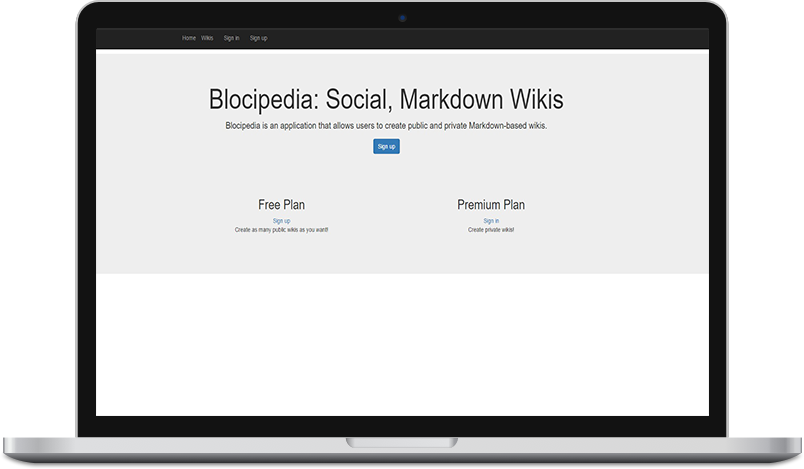
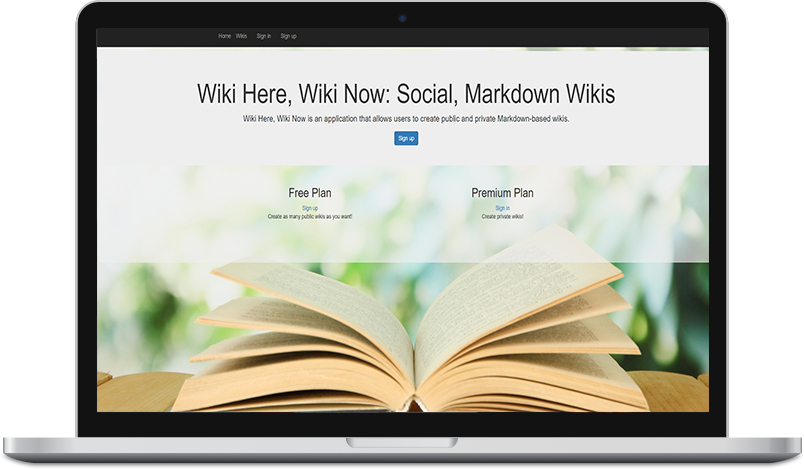
wiki here wiki now project added

diff --git a/_portfolio/wikiherewikinow.md b/_portfolio/wikiherewikinow.md
@@ -1,0 +1,53 @@
+---
+layout: post
+title: Wiki Here, Wiki Now
+thumbnail-path: "img/wikiherewikinow.png"
+short-description: Wiki Here, Wiki Now is an application that allows users to create wikis and collaborate on other wikis.
+date: 20/05/2016
+hide: false
+---
+
+{:.center}
+[![Demo]({{ site.baseurl }}/img/wikiherewikinow.png)](https://blooming-plains-48367.herokuapp.com/)
+
+## Summary
+
+This project was my first main Ruby and Rails application. This application that allows users to create wikis and collaborate on other wikis. Users can pay to upgrade their membership, allowing them to view and create private wikis.
+
+## Explanation
+
+In constructing this application, I learned substantially more about ActiveRecord, model relationships, controller actions, views, you name it. The project site itself is fairly simple and focused on the site's functionality, but my personal highlights include working with a joins table, policy with pundit, and really getting to know the ActiveRecord Relationships that Rails can obfuscate on basic projects.
+
+*   There are three types of users: standard, premium and admin.
+*   Users can create a standard account in order to create, edit, and collaborate on public wikis using Markdown syntax. Anyone can view public wikis.
+*   Users can pay to upgrade their account to Premium in order to view and create private wikis.
+*   Premium users can allow others to view and collaborate on the private wikis they create.
+*   Premium users can downgrade their account back to Standard.
+*   When a user downgrades his or her account, his or her private wikis will automatically become public.
+
+NOTE: Upgrading to Premium is done with Stripe. It is deliberately set to test mode. The upgrade itself occurs when payment is processed.
+
+## Problem
+
+The biggest objective for this project was to spend time getting to know Rails and understanding how the MVC architecture fits together along with all the other parts of using Rails in the "Rails Way", which is all about convention over configuration.
+For an application like this that utilizes users and requires authentication and authorization, solutions had to found to handle those aspects. Additionally, there was the _'small'_ aspect of payment processing that had to implemented.
+There were also various smaller elements that needed to be addressed for the creation of my vision of this application.
+
+## Solution
+
+To start off, I had to build the necessary models for the wikis and users and their associated controllers and views. I used the Devise and Pundit gems to handle my authentication and authorization respectively. For the users' account page, I decided to throw in the Gravatar image to give a little bit of personality to the users' account pages. In order to get the email functionality implemented, I chose to use the simple add-on on Heroku called, SendGrid. This simple little add-on allowed me to have my application send emails at no cost. Great!
+To tackle payment processing, I chose the very popular service, Stripe. After installing their gem and hooking my application into my Stripe account, I utilized Stripe's outstanding documentation to setup the necessary payment details and even went so far as to implement a subscription based payment system for my premium customers. Obviously, as this application was intended for my own educational purposes, I have not converted into live payment processing and the application is still setup to handle test payments.
+
+Halfway through this project I came up with the great idea to upgrade my Rails installation from Rails 4 to Rails 5. This was probably entirely unnecessary, however, it gave me great experience in conducting an upgrade of that scale to an application that was not large to be overwhelming to complete by myself. Even though Rails 5 was quite new at the time, the upgrade synergized nearly perfectly with my application.
+
+I wanted to create a good experience for my users in setting up the creation and editing of wikis so I used a combination of three gems to assist in this, Friendly_id, Redcarpet, and EpicEditor. Friendly_id was used to alter my original IDs that were used in the URLs for each wiki so that they were more human readable. Redcarpet was used to process the Markdown that users would type into my wiki form and EpicEditor was a small library that created a preview window for Markdown code so the user could type Markdown in one window and then be able to preview the live result.
+
+Lastly, I had heard about another way to structure the code for my views instead of using ERB. I'm referring to HAML of course. However, as widely used as HAML appears to be, I just couldn't get into it. I tried it out by converting a few of my views over to HAML but I just do not like space based code. It bugs me to no end. I completely realize how clean it appears but relying on whitespace for my code to function correctly is just not going to happen for me.
+
+## Results
+
+The application gave me tons of things to learn about and work on and that felt really good. The gems I used seemed to work great together, especially using Pundit and Devise together. I can definitely see why so many devs use them to obfuscate the authorization and authentication functionality, especially after having implemented those by hand in a prior project.
+
+## Conclusion
+
+I learned a lot and built a great application. What more could you ask for?
